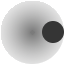
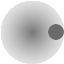
bullet appearing at proper location and travelling in proper direction.

Changed region(s): [[0.6562, 0.3125, 1.0, 0.6875]]

diff --git a/src/com/cmaher/sgas/components/PlayerFireInputComponent.java b/src/com/cmaher/sgas/components/PlayerFireInputComponent.java
@@ -1,23 +1,81 @@
 package com.cmaher.sgas.components;
 
+import java.util.Iterator;
+import java.util.LinkedList;
+import java.util.List;
+
 import com.badlogic.gdx.Gdx;
 import com.badlogic.gdx.Input;
+import com.badlogic.gdx.math.MathUtils;
+import com.badlogic.gdx.math.Vector2;
 import com.cmaher.sgas.entities.Entity;
+import com.cmaher.sgas.entities.StraightBullet;
 
 public class PlayerFireInputComponent extends Component {
-    private final static int BUTTON_FIRE_PRIMARY = Input.Buttons.LEFT;
+    private final static int     BUTTON_FIRE_PRIMARY      = Input.Buttons.LEFT;
+    private final static float   DEFAULT_BULLET_WAIT_TIME = .2f;
+    private final static float   OVERLAY_DISTANCE         = 24;
+    private final static float   OVERLAY_RADIUS           = 8;
+    private final static float   BULLET_SPEED             = 512;
 
-    PlaceComponent           place;
+    private PlaceComponent       place;
+    private float                cumDelta                 = 0;
+    private List<StraightBullet> bullets;
+    private float                bulletWaitTime;
 
     // use pool of bullets
     public PlayerFireInputComponent(Entity master, PlaceComponent place) {
         super(master);
         this.place = place;
+        bullets = new LinkedList<StraightBullet>();
+        bulletWaitTime = DEFAULT_BULLET_WAIT_TIME;
     }
 
     public void update(float delta) {
-        if (Gdx.input.isButtonPressed(BUTTON_FIRE_PRIMARY)) {
-            // fire a bullet
+        // fire a bullet
+        if (cumDelta >= bulletWaitTime) {
+            if (Gdx.input.isButtonPressed(BUTTON_FIRE_PRIMARY)) {
+
+                float a = place.getAngle() * MathUtils.degreesToRadians;
+                float xOff = OVERLAY_DISTANCE * MathUtils.cos(a)
+                        - OVERLAY_RADIUS;
+                float yOff = OVERLAY_DISTANCE * MathUtils.sin(a)
+                        - OVERLAY_RADIUS;
+
+                Vector2 bulletStart = place.getCenter().add(xOff, yOff);
+
+                Vector2 bulletDirection = PhysicsComponent.VECTOR_RIGHT.cpy()
+                        .rotate(place.getAngle());
+                StraightBullet bullet = new StraightBullet(master.game);
+                bullets.add(bullet);
+                bullet.shoot(bulletStart, bulletDirection, BULLET_SPEED);
+
+                cumDelta = 0;
+            }
         }
+
+        // update bullets
+        Iterator<StraightBullet> bulletIter = bullets.iterator();
+        while (bulletIter.hasNext()) {
+            StraightBullet sb = bulletIter.next();
+            sb.update(delta);
+            if (!sb.isAlive()) {
+                bulletIter.remove();
+            }
+        }
+
+        cumDelta += delta;
+        // handle extremely rare overflow case
+        if (cumDelta < 0) {
+            cumDelta = bulletWaitTime;
+        }
+    }
+
+    public float getBulletWaitTime() {
+        return bulletWaitTime;
+    }
+
+    public void setBulletWaitTime(float bulletWaitTime) {
+        this.bulletWaitTime = bulletWaitTime;
     }
 }

diff --git a/src/com/cmaher/sgas/entities/StraightBullet.java b/src/com/cmaher/sgas/entities/StraightBullet.java
@@ -1,37 +1,47 @@
 package com.cmaher.sgas.entities;
+
+import com.badlogic.gdx.graphics.Color;
+import com.badlogic.gdx.math.Vector2;
 import com.cmaher.sgas.SGASGame;
 import com.cmaher.sgas.components.DrawComponent;
 import com.cmaher.sgas.components.PhysicsComponent;
 import com.cmaher.sgas.components.PlaceComponent;
 
-
 public class StraightBullet extends Entity {
-    private static final String asset = SGASGame.ASSETS + "bullet.png";
-    
-    
-    PlaceComponent place;
-    PhysicsComponent phys;
-    DrawComponent draw;
+    private static final String BULLET         = SGASGame.ASSETS + "bullet.png";
+    private static final String BULLET_OVERLAY = SGASGame.ASSETS
+                                                       + "bullet_overlay.png";
 
-    private boolean alive = false;
+    private PlaceComponent      place;
+    private PhysicsComponent    phys;
+    private DrawComponent       bulletDraw;
+    private DrawComponent       overlayDraw;
+
+    private boolean             alive          = false;
 
     public StraightBullet(SGASGame game) {
         super(game);
         place = new PlaceComponent(this);
         phys = new PhysicsComponent(this, place);
-        draw = new DrawComponent(this, place, asset);
+        bulletDraw = new DrawComponent(this, place, BULLET);
+        bulletDraw.setTint(Color.RED);
+        overlayDraw = new DrawComponent(this, place, BULLET_OVERLAY);
     }
 
-    public void shoot(float x0, float y0, float angle, float speed) {
-        place.setPosition(x0, y0);
-        phys.setVelocity(angle, speed);
+    public void shoot(Vector2 origin, Vector2 direction, float speed) {
+        place.setPosition(origin.x, origin.y);
+        phys.setVelocity(direction, speed);
+        phys.setMaxSpeed(speed);
+        phys.setMinSpeed(speed);
+        
         alive = true;
     }
 
     public void update(float delta) {
-        if(alive) {
-            phys.update(delta);
-            draw.draw();
+        if (alive) {
+            phys.update(delta);       
+            bulletDraw.draw();
+            overlayDraw.draw();
         }
     }
 

diff --git a/src/com/cmaher/sgas/entities/Player.java b/src/com/cmaher/sgas/entities/Player.java
@@ -5,6 +5,7 @@ import com.cmaher.sgas.SGASGame;
 import com.cmaher.sgas.components.DrawComponent;
 import com.cmaher.sgas.components.PhysicsComponent;
 import com.cmaher.sgas.components.PlaceComponent;
+import com.cmaher.sgas.components.PlayerFireInputComponent;
 import com.cmaher.sgas.components.PlayerMoveInputComponent;
 
 /**
@@ -23,7 +24,9 @@ public class Player extends Entity {
     private PlaceComponent           place;
     private DrawComponent            draw;
     private PhysicsComponent         phys;
-    private PlayerMoveInputComponent input;
+    private PlayerMoveInputComponent moveInput;
+    private PlayerFireInputComponent fireInput;
+    
 
     public Player(SGASGame game) {
         super(game);
@@ -43,13 +46,16 @@ public class Player extends Entity {
 
         phys = new PhysicsComponent(this, place, MIN_SPEED, MAX_SPEED);
 
-        input = new PlayerMoveInputComponent(this, place, phys);
+        moveInput = new PlayerMoveInputComponent(this, place, phys);
+        fireInput = new PlayerFireInputComponent(this, place);
     }
 
     @Override
     public void update(float delta) {
-        input.update(delta);
-        phys.update(delta);
+        moveInput.update(delta);
         draw.draw();
+        fireInput.update(delta);
+        phys.update(delta);
+        
     }
 }

diff --git a/src/com/cmaher/sgas/components/PlaceComponent.java b/src/com/cmaher/sgas/components/PlaceComponent.java
@@ -9,8 +9,9 @@ public class PlaceComponent extends Component {
     protected float   y;
     protected int     width;
     protected int     height;
-    protected float   angle;
-    protected Vector2 origin;
+    protected float   angle; //in degrees
+    protected Vector2 origin = new Vector2();
+    protected Vector2 center = new Vector2();
 
     public PlaceComponent(Entity master) {
         super(master);
@@ -85,14 +86,17 @@ public class PlaceComponent extends Component {
     }
 
     public Vector2 getCenter() {
-        return new Vector2(x + width / 2, y + height / 2);
+        center.x = x + width / 2;
+        center.y = y + height / 2;
+        return center.cpy();
     }
 
     public Vector2 getOrigin() {
-        return origin;
+        return origin.cpy();
     }
 
-    public void setOrigin(Vector2 origin) {
-        this.origin = origin;
+    public void setOrigin(float x, float y) {
+        this.origin.x = x;
+        this.origin.y = y;
     }
 }

diff --git a/src/com/cmaher/sgas/components/PhysicsComponent.java b/src/com/cmaher/sgas/components/PhysicsComponent.java
@@ -107,7 +107,7 @@ public class PhysicsComponent extends Component {
     }
 
     public Vector2 getVelocity() {
-        return velocity;
+        return velocity.cpy();
     }
 
     public void setAcceleration(Vector2 acceleration) {
@@ -123,7 +123,7 @@ public class PhysicsComponent extends Component {
     }
 
     public Vector2 getAcceleration() {
-        return acceleration;
+        return acceleration.cpy();
     }
 
     public void setMaxSpeed(float maxSpeed) {

diff --git a/src/com/cmaher/sgas/components/DrawComponent.java b/src/com/cmaher/sgas/components/DrawComponent.java
@@ -4,7 +4,6 @@ import com.badlogic.gdx.graphics.Color;
 import com.badlogic.gdx.graphics.Texture;
 import com.badlogic.gdx.graphics.g2d.Sprite;
 import com.badlogic.gdx.graphics.g2d.TextureRegion;
-import com.badlogic.gdx.math.Vector2;
 import com.cmaher.sgas.entities.Entity;
 
 public class DrawComponent extends Component {

diff --git a/src/com/cmaher/sgas/components/PlayerMoveInputComponent.java b/src/com/cmaher/sgas/components/PlayerMoveInputComponent.java
@@ -41,6 +41,7 @@ public class PlayerMoveInputComponent extends Component {
         updateAngle();
     }
 
+    //TODO: fix a bug with this function where the window losing focus keeps the key pressed down
     private void updateVelocity(float delta) {
         Vector2 direction = new Vector2();
 
